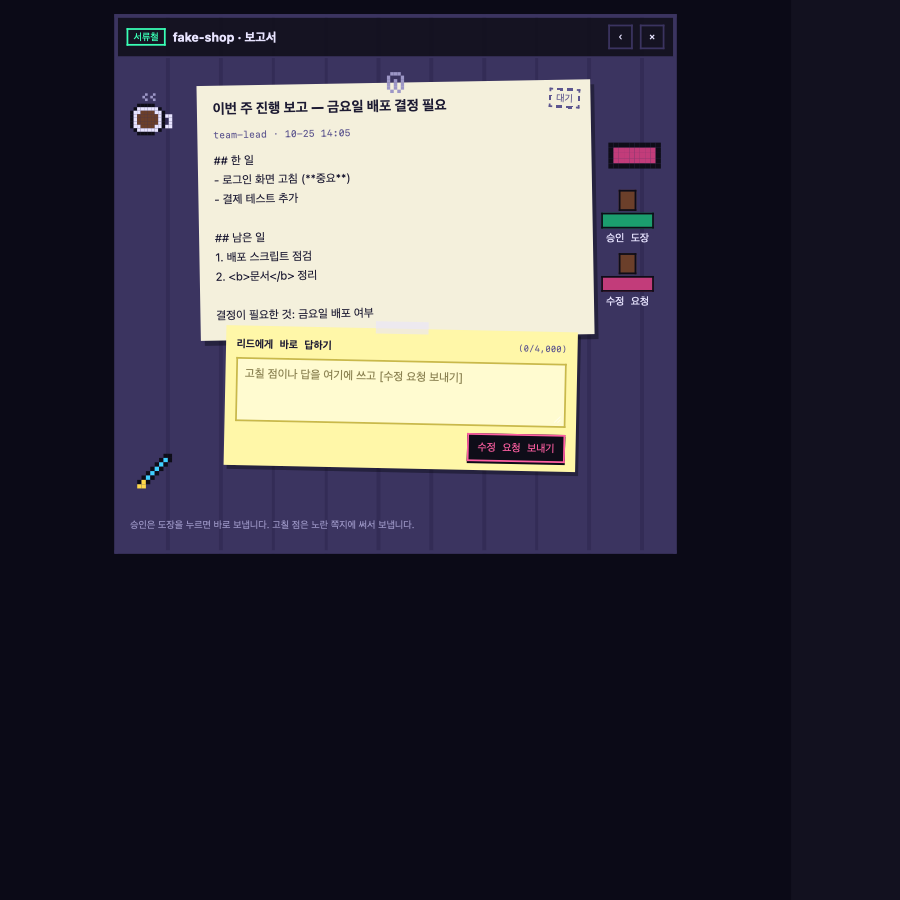
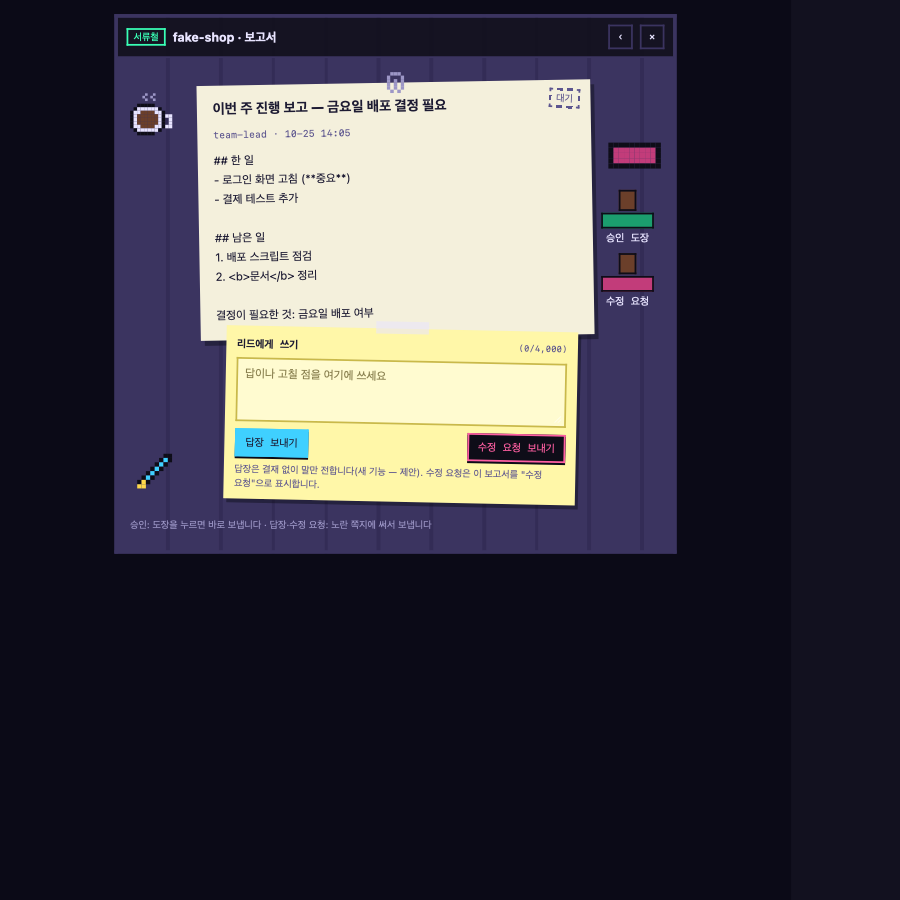
docs(design): beta.15 mockups round 2 - reply button on the desk note, disabled-reason box, pantry, working aura; design backlog
Claude-Session: https://claude.ai/code/session_01Vrs8796A5iBgfYY72HVQcF

Changed region(s): [[0.1556, 0.3733, 0.6533, 0.5911], [0.3733, 0.4044, 0.4978, 0.4356], [0.6222, 0.4044, 0.6533, 0.4356]]

diff --git a/docs/design/beta15-game/SPEC.md b/docs/design/beta15-game/SPEC.md
@@ -17,11 +17,11 @@
 | 자리 | 놓인 것 | 하는 일 |
 |---|---|---|
 | 가운데 | 보고서 종이(`--paper`, -1° 기울임, 클립) | 제목·`{리드} · {시각}`·본문(스크롤). 오른쪽 위 점선 도장 칸 `대기` |
-| 종이 아래(겹쳐 붙음) | 노란 쪽지(+1° 기울임, 테이프) | **리드에게 바로 답하기** 칸 + `[수정 요청 보내기]` — 늘 펼쳐져 있음 |
+| 종이 아래(겹쳐 붙음) | 노란 쪽지(+1° 기울임, 테이프) | **리드에게 쓰기** 칸(늘 펼침) + 왼쪽 `[답장 보내기]`(하늘, **제안** — 결재 없이 말만 전함) + 오른쪽 `[수정 요청 보내기]`(분홍) |
 | 오른쪽 | 인주 + 도장 둘 | `[승인 도장]`(초록) 누르면 바로 승인 / `[수정 요청]`(분홍) 누르면 쪽지 칸으로 포커스 |
 | 왼쪽 위 | 커피 잔(김이 남) | 장식(`aria-hidden`) |
 | 왼쪽 아래 | 펜 | 장식 |
-| 바닥 | 안내 한 줄 | `승인은 도장을 누르면 바로 보냅니다. 고칠 점은 노란 쪽지에 써서 보냅니다.` |
+| 바닥 | 안내 한 줄 | `승인: 도장을 누르면 바로 보냅니다 · 답장·수정 요청: 노란 쪽지에 써서 보냅니다` |
 
 - 책상판: `--desk`/`--desk-dark` 세로 판자 무늬(CSS 반복 그라데이션), 바깥 테두리 4px `--desk`. 창 크기 `min(640px, 100vw - 16px)`, `<dialog>.showModal`(Esc = 닫기, 열릴 때 포커스는 종이).
 - 결재가 끝나면 종이에 도장이 찍히고(phase6b §3.3 도장 그대로) 쪽지·도장 자리는 `{시각}에 승인했습니다` 한 줄로 바뀝니다. 보관됨(휴업)은 점선 도장 그대로.
@@ -30,8 +30,10 @@
 
 원인은 developer·reviewer가 보지만, 화면만 봐도 걸리는 점이 있습니다: 지금은 답하는 칸이 `[수정 사항 적기]`를 눌러야 열리고(phase6b §3.4), 이름도 "수정 사항"이라 **"답"을 쓰는 자리로 보이지 않습니다**.
 
-- 쪽지 칸을 **늘 펼쳐 둡니다**(누르지 않아도 보임). 머리 「안」 `리드에게 바로 답하기`, 빈 칸 안내 「안」 `고칠 점이나 답을 여기에 쓰고 [수정 요청 보내기]`.
-- 보내는 것은 지금과 같은 `revise`(수정 요청) 지시입니다 — 틀·상한(4,000자)·글자로만 넣기 그대로.
+- 쪽지 칸을 **늘 펼쳐 둡니다**(누르지 않아도 보임). 머리 「안」 `리드에게 쓰기`, 빈 칸 안내 「안」 `답이나 고칠 점을 여기에 쓰세요`.
+- 버튼 셋의 자리: **승인 = 도장**(오른쪽, 바로 보냄) / **수정 요청 = 쪽지 오른쪽 분홍 버튼**(지금의 `revise` 지시 그대로 — 틀·4,000자·글자로만) / **답장 = 쪽지 왼쪽 하늘 버튼**(제안). 쪽지 아래 한 줄 「안」 `답장은 결재 없이 말만 전합니다(새 기능 — 제안). 수정 요청은 이 보고서를 "수정 요청"으로 표시합니다.`
+- `[답장 보내기]`는 **새 지시 종류**가 필요합니다(보고서 id + 사용자 글, 결재 상태를 바꾸지 않음 — 서버 틀·security 검토 필요). 사용자가 "그냥 답하기"를 원하면 넣고, 아니면 쪽지에는 `[수정 요청 보내기]` 하나만 둡니다.
+- 서류철로 가는 길·답 칸의 "대기 보고서 N건 — 서류철 열기"·말풍선 글자는 B335로 developer가 지금 화면에서 먼저 고칩니다(§3). 이 장면은 그 서류철이 열린 뒤의 모습입니다.
 - channel이 없는 층: 쪽지와 도장을 흐리게(`aria-disabled`) + 쪽지 위에 기존 이유 줄(`작업 지시 켜기(옮겨 열기)로 연결하면 쓸 수 있습니다`).
 
 ### 1.3 360폭
@@ -109,18 +111,60 @@ designer 의견: **C를 바탕으로 §1 책상 장면과 A의 "!" 풍선만 가
 - **겹칠 때 우선순위:** 이름표 아래 한 줄은 `답을 기다립니다` > `결재 {n}`. 결재 대기는 책상 위 노란 서류철 그림이 계속 보여 주고, 수는 aria-label(`, 결재 대기 {n}건`)과 리드 패널 `[서류철 · 대기 n]`에 남습니다. 렌더 셋째 칸이 겹침 모습입니다.
 - `답?`은 결정의 노란 ?(손들기, 머리 위 떠 있음)과 색(하늘)·자리(말머리 안)·모양(글자 + 물음표)이 달라 헷갈리지 않습니다.
 - 칩 `답을 기다립니다`는 92px 안에 들어갑니다(10px 8자, 렌더 확인).
-- 원인(Stop 판정이 보고서 제출 뒤 글에 걸리는지 등)은 developer 재현 결과를 보고 맞춥니다 — 판정이 틀린 것이면 표시보다 판정을 고치는 쪽이 먼저입니다.
+- **원인 확정·B335(developer가 지금 화면에서 먼저 고침):** 보고서를 낸 턴의 Stop은 "답을 기다립니다"를 만들지 않고, 말풍선에 `답을 기다립니다` 글자를 보이며, 결재 칩·서류철 그림을 서류철을 여는 버튼으로 만들고, 답 칸에 「안」 `대기 보고서 {n}건 — 서류철 열기`를 둡니다. 위 표의 제안(`답?` 말머리 + 칩)은 B335 커밋을 보고 SPEC·렌더를 맞춥니다(말풍선 안 긴 글자가 360폭에서 넘치면 이 칩 방식을 권함).
 
 ---
+
+## §5 꺼진 버튼의 이유를 바로 보이게 (사용자 요청 4)
+
+`renders/disabled-reason-900.png`, `-360.png`
+
+"퇴근·퇴사가 그냥 비활성 버튼처럼 보인다." 지금은 버튼이 흐리고, 이유는 버튼 아래 작은 회색 줄(phase6b §1.2)이라 눈에 잘 띄지 않습니다.
+
+- 작업 지시가 꺼진 층이면 **버튼 묶음 위**에 이유 상자: 하늘 점선 테두리, 세모 표시, 「안」 `이 층은 작업 지시가 꺼져 있어 아래 버튼을 쓸 수 없습니다.` + `[작업 지시 켜기]`(하늘 바탕 버튼 — 지금의 옮겨 열기 창을 엶).
+- 꺼진 버튼에는 작은 자물쇠 도트를 앞에 붙여 "잠김"이 모양으로도 보이게 합니다(`aria-disabled` + `aria-describedby`는 지금처럼).
+- 보고 요청·결재(서류철)·답 칸도 같은 상자 하나를 그 묶음 위에 둡니다. 연결되면 상자는 사라집니다.
+- 360폭: 상자 안 글이 두 줄, 버튼은 그 아래 줄.
+
+## §6 쉬는 팀원은 탕비실로 (사용자 요청 5)
+
+`renders/pantry-900.png`, `-360.png`
+
+- 층 방 오른쪽 끝에 칸막이 하나로 나눈 **탕비실**(커피 머신·소파). 이름표 `탕비실`(10px `--muted`).
+- 오래 쉬는 팀원·퇴근 전 쉬는 팀원은 자기 책상에서 탕비실까지 **걸어가**(걷기 2프레임, steps) 커피 앞이나 소파에 머뭅니다. 빈 책상에는 「안」 `탕비실 →`.
+- 다시 일하면 책상으로 걸어 돌아옵니다. 걷는 동안 이름표·말풍선은 캐릭터를 따라갑니다(누르면 그 팀원 패널).
+- **`prefers-reduced-motion`:** 걷지 않고 바로 그 자리에 놓인 멈춘 그림(렌더가 그 모습).
+- 360폭: 방이 좁아 탕비실은 맨 아래 줄 오른쪽 한 칸.
+- 퇴근 팻말 빈 의자(phase6b)는 탕비실로 가지 않습니다(퇴근은 자리에 없음).
+
+## §7 "일하는 중" 표시 — 불꽃과 오라 (사용자 요청 6)
+
+`renders/aura-900.png`
+
+키보드 이모지(`⌨`) 대신 캐릭터 주변 도트 효과. 노력 정도(developer #646 조사 결과로 기준을 정함)에 따라 4단계:
+
+| 단계 | 모양 |
+|---|---|
+| 1 평소 | 효과 없음(모니터 켜짐만) |
+| 2 불꽃 | 노란 도트 불꽃 2개가 번갈아 튐 |
+| 3 오라 | 노란 점선 오라 한 겹 + 불꽃 4개 |
+| 4 큰 오라 | 오라 두 겹(바깥 `--yellow-deep`) + 불꽃 7개 |
+
+- 그림 속 오라는 둥근 점선으로 대략 그렸습니다. 확정 때는 도트 불꽃 모양(위로 솟는 3~4단 계단)으로 다시 그립니다.
+- 움직임: 불꽃 반짝임만(0.4초 steps), 깜빡임 금지(번쩍임 없음). `prefers-reduced-motion`이면 정지한 오라.
+- 말풍선 자리와 겹치지 않게 오라는 캐릭터·모니터 뒤에 그립니다.
 
 ## §4 렌더 목록
 
 | 파일 | 내용 |
 |---|---|
-| `renders/desk-report-900.png` / `-360.png` | §1 1인칭 책상 보고서(쪽지 칸 늘 펼침, 도장 둘, 소품) |
+| `renders/desk-report-900.png` / `-360.png` | §1 1인칭 책상 보고서(쪽지 칸 늘 펼침, [답장]·[수정 요청], 도장, 소품) |
 | `renders/game-a-rpg-900.png` / `-360.png` | §2 A안 |
 | `renders/game-b-sim-900.png` / `-360.png` | §2 B안 |
 | `renders/game-c-arcade-900.png` / `-360.png` | §2 C안 |
 | `renders/await-900.png` / `-360.png` | §3 지금 / 답만 / 답+결재 겹침 / 결재만 |
+| `renders/disabled-reason-900.png` / `-360.png` | §5 꺼진 버튼 위 이유 상자 + [작업 지시 켜기] |
+| `renders/pantry-900.png` / `-360.png` | §6 탕비실(움직임 줄이기 때의 멈춘 그림) |
+| `renders/aura-900.png` | §7 일하는 중 4단계 |
 
 목업이라 소품·캐릭터는 대략의 도트이고, 확정되면 phase6b처럼 SPEC 표·mock.css로 다시 씁니다.

diff --git a/docs/design/backlog.md b/docs/design/backlog.md
@@ -1,0 +1,13 @@
+# 디자인 요청 목록 (backlog)
+
+사용자가 생각날 때마다 보내는 디자인 요청을 쌓습니다. 목업은 묶어서 사용자 확인을 받습니다.
+상태: **대기**(아직 손대지 않음) · **목업**(그림·SPEC 있음, 사용자 확인 전) · **확인**(사용자가 고름) · **구현**(코드 반영됨).
+
+| 날짜 | 요청 요지(원문 요약) | 상태 | 자리 |
+|---|---|---|---|
+| 2026-10-25 | 보고서를 내 책상 위에서 1인칭으로 내려다보는 장면(커피 잔·펜 소품), 거기서 바로 답하기 | 목업 | `beta15-game/SPEC.md` §1, `renders/desk-report-*` |
+| 2026-10-25 | 전체를 게임풍으로 — 2~3안 | 목업 | 같은 SPEC §2, `renders/game-a/b/c-*` |
+| 2026-10-25 | 리드 책상 "· · ·"만 보여 뜻을 모름 | 목업(원인은 B335로 developer가 먼저 고침) | §3, `renders/await-*` |
+| 2026-10-25 | 퇴근·퇴사가 그냥 비활성 버튼처럼 보임 — 왜 꺼졌고 어떻게 켜는지 바로 보이게 | 목업 | §5, `renders/disabled-reason-*` |
+| 2026-10-25 | 쉬는 팀원이 탕비실 같은 곳으로 걸어가 머무는 움직임 | 목업 | §6, `renders/pantry-*` |
+| 2026-10-25 | "일하는 중"을 키보드 이모지 대신 불꽃·오라(노력 정도로 3~4단계) | 목업(단계 기준은 developer #646 조사 뒤) | §7, `renders/aura-900.png` |
